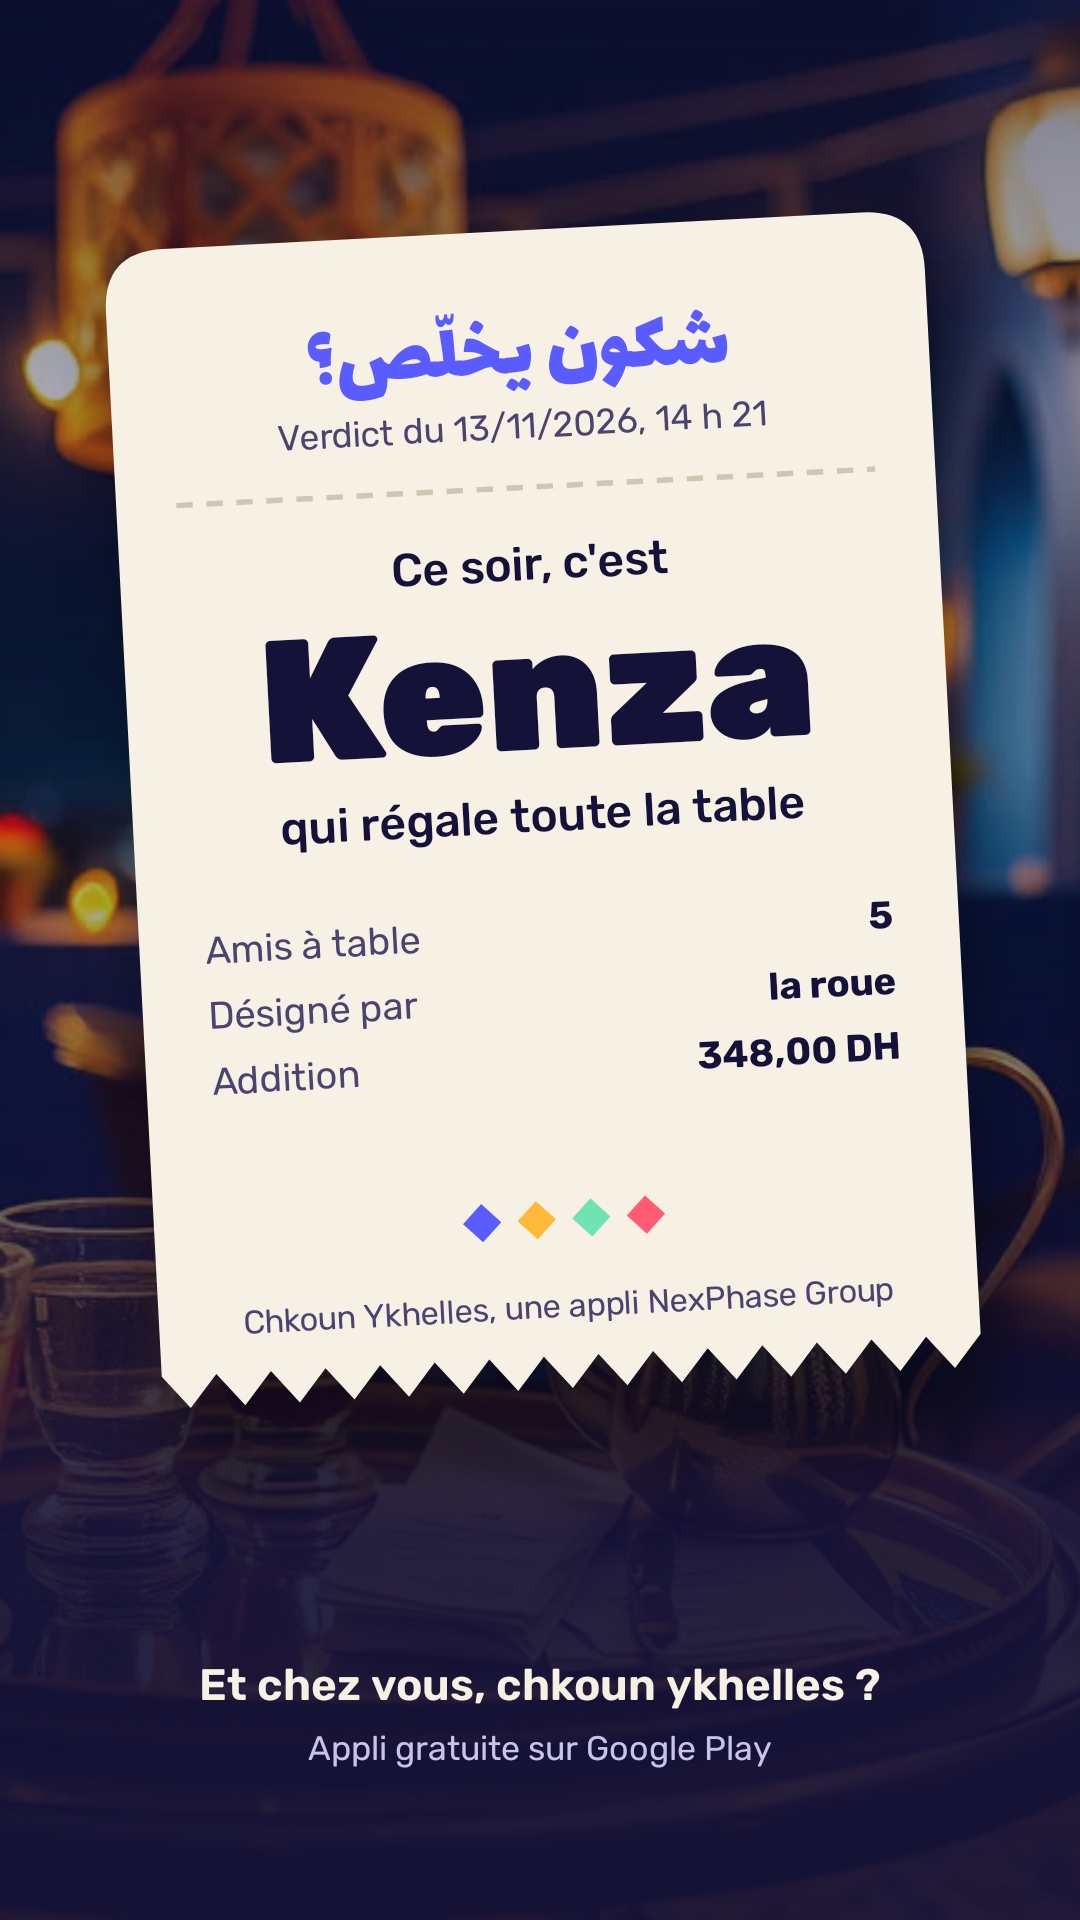
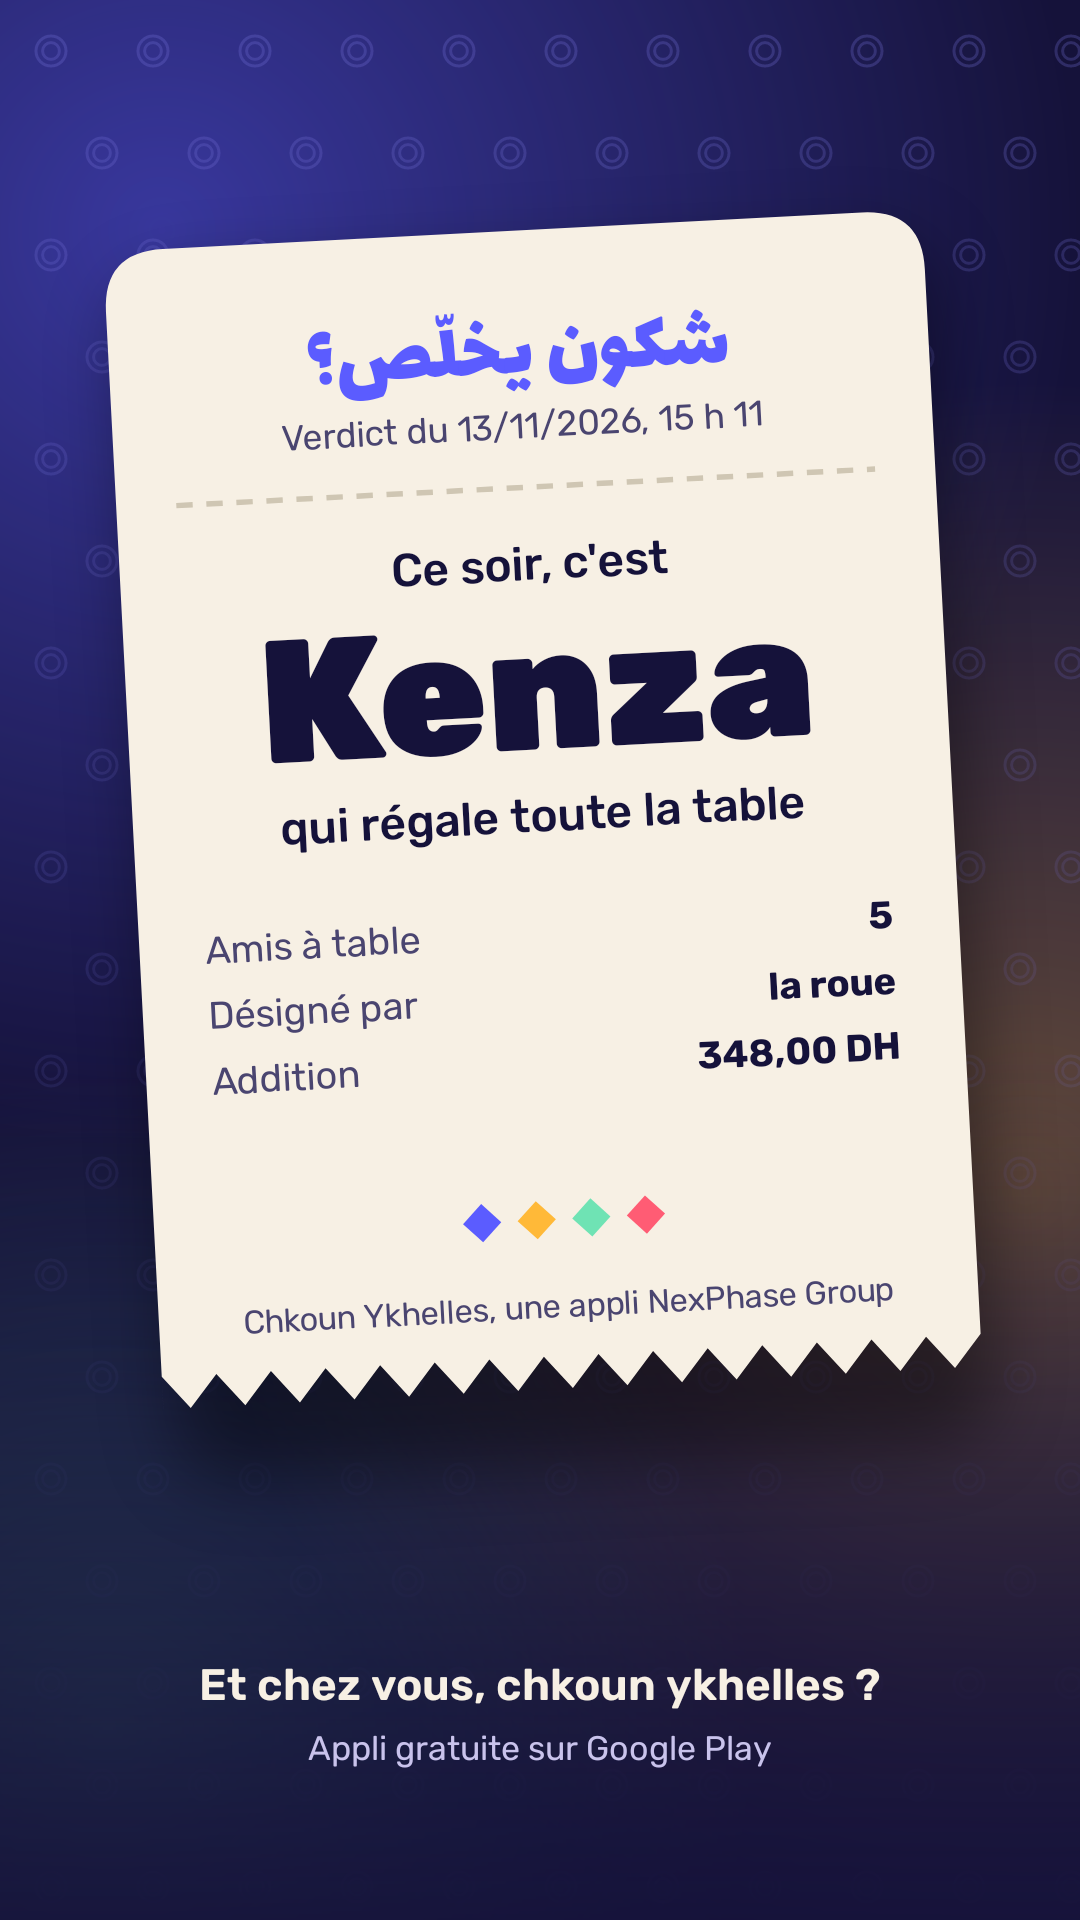
Version 1.0.1 : nouveau decor du verdict et nouvelle banniere

diff --git a/app/src/main/java/ma/nexphasegroup/chkoun/Ticket.kt b/app/src/main/java/ma/nexphasegroup/chkoun/Ticket.kt
@@ -82,22 +82,45 @@ object DessinTicket {
         txt("Chkoun Ykhelles, une appli NexPhase Group", 398f, 12f, 400, 0xFF4A4570.toInt())
     }
 
+    /**
+     * Décor de nuit : fond bleu nuit, halos Majorelle, safran et menthe, grille de pièces qui s'efface vers le bas.
+     * `u` = taille d'un « dp » dans ce dessin.
+     */
+    fun decor(c: Canvas, w: Float, h: Float, u: Float) {
+        c.drawColor(C.NUIT)
+        val p = Paint(Paint.ANTI_ALIAS_FLAG)
+        fun halo(x: Float, y: Float, r: Float, couleur: Int) {
+            p.shader = android.graphics.RadialGradient(x, y, r, intArrayOf(couleur, couleur and 0x00FFFFFF), null, Shader.TileMode.CLAMP)
+            c.drawCircle(x, y, r, p)
+        }
+        halo(w * 0.15f, h * 0.12f, w * 0.85f, 0x805B5CFF.toInt())
+        halo(w * 0.95f, h * 0.62f, w * 0.75f, 0x55FFB938)
+        halo(w * 0.1f, h * 0.9f, w * 0.6f, 0x406FE3B4)
+        p.shader = null
+        p.style = Paint.Style.STROKE
+        p.strokeWidth = u
+        val pas = 34 * u
+        var y = pas / 2; var rang = 0
+        while (y < h) {
+            var x = pas / 2 + if (rang % 2 == 1) pas / 2 else 0f
+            val a = ((1f - y / h) * 70).toInt().coerceIn(10, 70)
+            p.color = 0xFF7874DC.toInt(); p.alpha = a
+            while (x < w + pas) {
+                c.drawCircle(x, y, 5 * u, p); c.drawCircle(x, y, 2.8f * u, p)
+                x += pas
+            }
+            y += pas; rang++
+        }
+        val voile = Paint().apply { shader = LinearGradient(0f, h * 0.55f, 0f, h, intArrayOf(0x0015123A, 0xE615123A.toInt()), null, Shader.TileMode.CLAMP) }
+        c.drawRect(0f, h * 0.55f, w, h, voile)
+    }
+
     /** Image 1080 x 1920 au format story, prête à partager. */
     fun image(ctx: Context, v: Verdict): Bitmap {
         val w = 1080; val h = 1920
         val bmp = Bitmap.createBitmap(w, h, Bitmap.Config.ARGB_8888)
         val c = Canvas(bmp)
-        c.drawColor(C.NUIT)
-        val photo = BitmapFactory.decodeResource(ctx.resources, R.drawable.terrasse)
-        if (photo != null) {
-            val ech = h.toFloat() / photo.height
-            val pw = photo.width * ech
-            val dx = (w - pw) * 0.62f
-            c.drawBitmap(photo, Rect(0, 0, photo.width, photo.height), RectF(dx, 0f, dx + pw, h.toFloat()), Paint(Paint.FILTER_BITMAP_FLAG))
-            photo.recycle()
-        }
-        val voile = Paint().apply { shader = LinearGradient(0f, 0f, 0f, h.toFloat(), intArrayOf(0x8C15123A.toInt(), 0x3315123A, 0xEB15123A.toInt()), floatArrayOf(0f, 0.4f, 0.8f), Shader.TileMode.CLAMP) }
-        c.drawRect(0f, 0f, w.toFloat(), h.toFloat(), voile)
+        decor(c, w.toFloat(), h.toFloat(), 3f)
         val lt = 820f
         c.save(); c.rotate(-3f, w / 2f, 760f)
         val ombre = Paint(Paint.ANTI_ALIAS_FLAG).apply { color = 0x66000000; maskFilter = android.graphics.BlurMaskFilter(60f, android.graphics.BlurMaskFilter.Blur.NORMAL) }
@@ -129,6 +152,12 @@ object DessinTicket {
         }
         ctx.startActivity(Intent.createChooser(envoi, "Partager le verdict").addFlags(Intent.FLAG_GRANT_READ_URI_PERMISSION))
     }
+}
+
+/** Fond du verdict : le même décor que l'image partagée. */
+class VueDecor(ctx: Context) : View(ctx) {
+    init { importantForAccessibility = IMPORTANT_FOR_ACCESSIBILITY_NO }
+    override fun onDraw(c: Canvas) = DessinTicket.decor(c, width.toFloat(), height.toFloat(), context.dp(1f))
 }
 
 /** Vue qui affiche le ticket, légèrement penché. */

diff --git a/store/src/visuels.html b/store/src/visuels.html
@@ -22,13 +22,16 @@ body{margin:0;background:#000;font-family:Rubik,sans-serif;color:var(--lait)}
 .tel img{display:block;width:100%;border-radius:64px}
 .icone{width:512px;height:512px}
 .banniere{width:1024px;height:500px;position:relative;overflow:hidden;background:var(--nuit)}
-.banniere .photo{position:absolute;inset:0;background:url(terrasse.jpg) right center/cover}
-.banniere .voile{position:absolute;inset:0;background:linear-gradient(90deg,rgba(21,18,58,.98) 0%,rgba(21,18,58,.9) 40%,rgba(21,18,58,0) 74%)}
+.banniere .photo{position:absolute;inset:0;
+  background:radial-gradient(circle at 78% 55%,rgba(255,185,56,.45),transparent 38%),radial-gradient(circle at 10% 0%,rgba(91,92,255,.55),transparent 55%),radial-gradient(circle at 55% 110%,rgba(111,227,180,.3),transparent 45%),#15123A}
+.banniere .photo::after{content:"";position:absolute;inset:0;
+  background-image:radial-gradient(circle at 50% 50%,transparent 7px,rgba(120,116,220,.3) 8px,rgba(120,116,220,.3) 9.5px,transparent 10.5px);background-size:44px 44px}
+.banniere .voile{position:absolute;inset:0;background:linear-gradient(90deg,rgba(21,18,58,.9) 0%,rgba(21,18,58,.55) 45%,rgba(21,18,58,0) 70%)}
 .banniere .texte{position:absolute;left:64px;top:0;bottom:0;width:520px;display:flex;flex-direction:column;justify-content:center}
 .ar{font-family:Lalezar;color:var(--safran);direction:rtl;text-align:left;line-height:1}
 .banniere h1{margin:14px 0 0;font-size:84px;line-height:.92;font-weight:900;letter-spacing:-.03em}
 .banniere p{margin:20px 0 0;font-size:26px;line-height:1.3;color:#E3DEFF;max-width:440px}
-.banniere svg{position:absolute;right:36px;bottom:-64px;filter:drop-shadow(0 20px 30px rgba(0,0,0,.5))}
+.banniere svg{position:absolute;right:70px;top:50%;transform:translateY(-50%) rotate(-12deg);filter:drop-shadow(0 30px 40px rgba(0,0,0,.55))}
 </style>
 </head>
 <body>
@@ -80,7 +83,7 @@ body{margin:0;background:#000;font-family:Rubik,sans-serif;color:var(--lait)}
     <h1>Chkoun ykhelles ?</h1>
     <p>La roue décide qui paie l'addition. Sans dispute.</p>
   </div>
-  <svg width="230" height="230" viewBox="22 20 64 64" xmlns="http://www.w3.org/2000/svg">
+  <svg width="380" height="380" viewBox="22 20 64 64" xmlns="http://www.w3.org/2000/svg">
     <g stroke="#15123A" stroke-width="1.2">
       <path fill="#5B5CFF" d="M54,57 L54,30 A27,27 0 0,1 79.68,48.66 Z"/>
       <path fill="#FFB938" d="M54,57 L79.68,48.66 A27,27 0 0,1 69.87,78.84 Z"/>

diff --git a/app/src/main/java/ma/nexphasegroup/chkoun/Ecrans.kt b/app/src/main/java/ma/nexphasegroup/chkoun/Ecrans.kt
@@ -617,13 +617,7 @@ class SecoueEcran(private val groupe: List<String>) : Ecran(), SensorEventListen
 class VerdictEcran(private var soiree: Soiree) : Ecran() {
     override fun creer(a: MainActivity): View {
         val cadre = FrameLayout(a)
-        cadre.addView(ImageView(a).apply {
-            setImageResource(R.drawable.terrasse); scaleType = ImageView.ScaleType.CENTER_CROP
-            importantForAccessibility = View.IMPORTANT_FOR_ACCESSIBILITY_NO
-        }, FrameLayout.LayoutParams(ViewGroup.LayoutParams.MATCH_PARENT, ViewGroup.LayoutParams.MATCH_PARENT))
-        cadre.addView(View(a).apply {
-            background = GradientDrawable(GradientDrawable.Orientation.TOP_BOTTOM, intArrayOf(0x8C15123A.toInt(), 0x4015123A, 0xF215123A.toInt(), C.NUIT))
-        }, FrameLayout.LayoutParams(ViewGroup.LayoutParams.MATCH_PARENT, ViewGroup.LayoutParams.MATCH_PARENT))
+        cadre.addView(VueDecor(a), FrameLayout.LayoutParams(ViewGroup.LayoutParams.MATCH_PARENT, ViewGroup.LayoutParams.MATCH_PARENT))
 
         val col = page(a)
         val haut = ligne(a)

diff --git a/docs/PLAY_STORE.md b/docs/PLAY_STORE.md
@@ -41,7 +41,7 @@ Une appli NexPhase Group, faite à Casablanca.
 | `banniere-1024x500.png` | Image de présentation | 1024 × 500 |
 | `capture-1.png` à `capture-6.png` | Captures téléphone | 1080 × 1920 |
 
-Sources et rendu : `store/src/visuels.html` et `store/src/rendre.py` (Playwright local). La photo de terrasse sert de décor : elle ne représente aucun lieu réel.
+Sources et rendu : `store/src/visuels.html` et `store/src/rendre.py` (Playwright local).
 
 ## Formulaires de la console
 - **Accès à l'appli** : tout est accessible sans connexion.

diff --git a/docs/CHANGELOG.md b/docs/CHANGELOG.md
@@ -4,3 +4,7 @@
 - Première version : roue, duel, secouer, verdict partageable, partage de l'addition, bilan et historique.
 - Animations : fond de pièces, titre vivant, roue au repos, ticket qui tombe, pluie de pièces, bilan qui se remplit.
 - Visuels du Play Store (icône, bannière, 6 captures) et politique de confidentialité.
+
+## 1.0.1 (13/11/2026)
+- Nouveau décor du verdict et de l'image partagée : fond de nuit, halos de couleur et pièces (plus de photo).
+- Nouvelle bannière du Play Store : la roue en grand.
